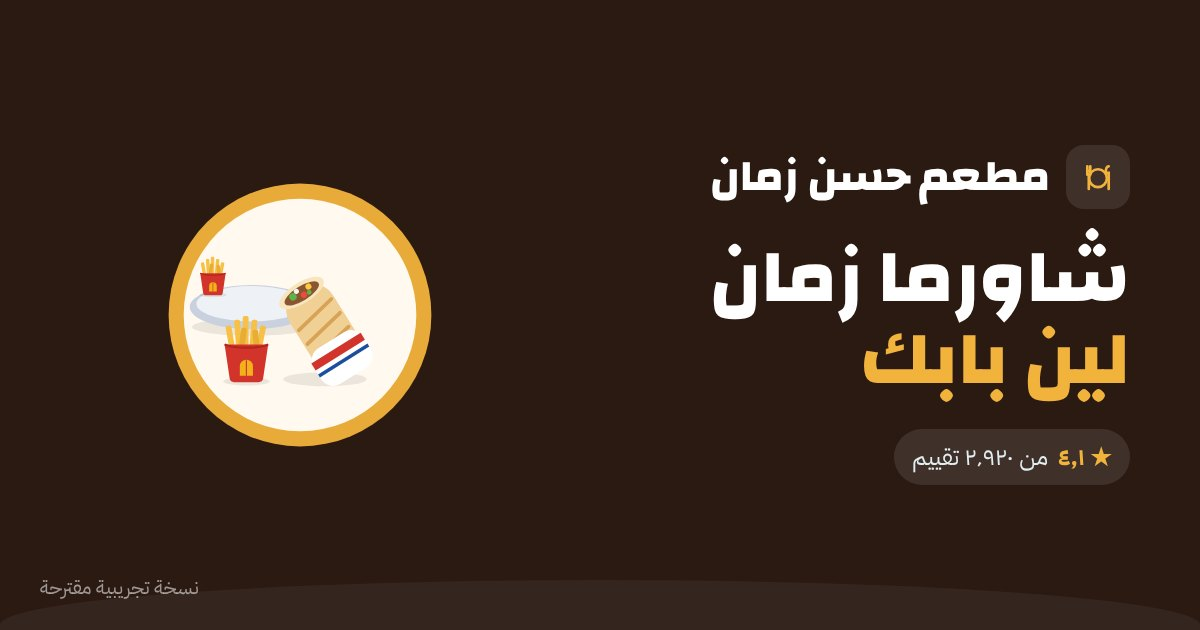
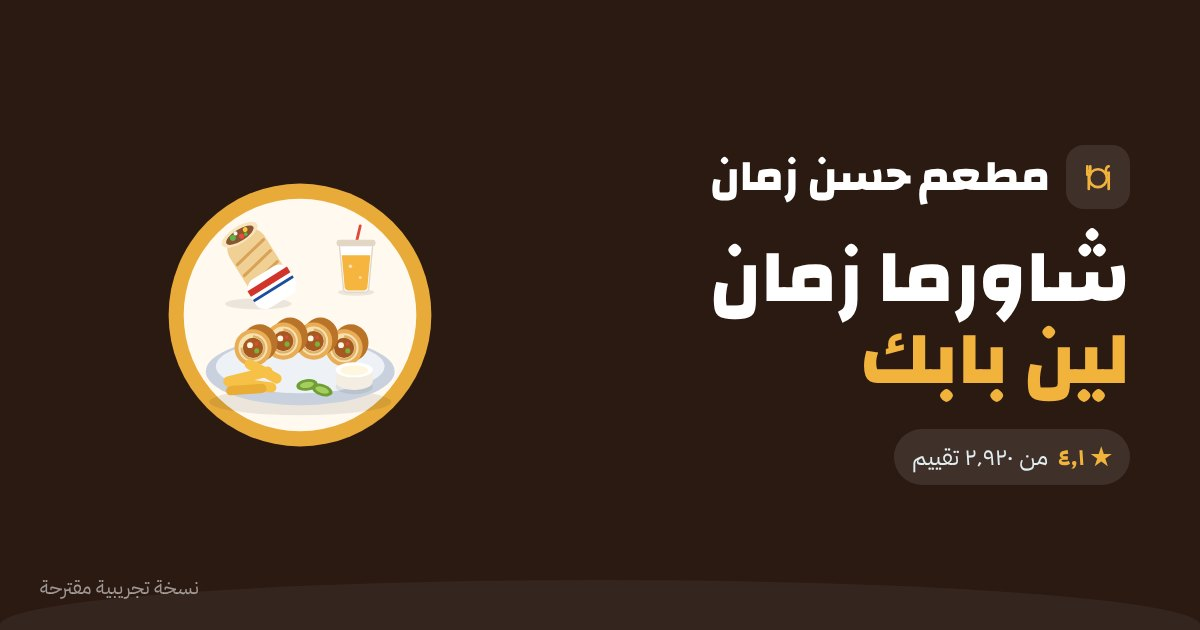
Update demo sites: hasanzaman

Changed region(s): [[0.1542, 0.3317, 0.3392, 0.6635]]

diff --git a/hasanzaman/index.html b/hasanzaman/index.html
@@ -477,6 +477,20 @@ table.t{width:100%;border-collapse:collapse;font-size:14px;background:#fff;min-w
   <rect x="32" y="32" width="56" height="9" rx="4.5" fill="#E2D6C4"/>
   <circle cx="52" cy="70" r="2.5" fill="#fff" opacity=".6"/><circle cx="66" cy="86" r="2" fill="#fff" opacity=".6"/>
 </symbol>
+<symbol id="f-samoli" viewBox="0 0 120 120">
+  <ellipse cx="60" cy="99" rx="50" ry="6" fill="#000" opacity=".08"/>
+  <path d="M10 74c0-3 2-5 5-5h90c3 0 5 2 5 5 0 9-7 16-16 16H26c-9 0-16-7-16-16z" fill="#E9A23B"/>
+  <path d="M18 74h84" stroke="#F6C978" stroke-width="3" stroke-linecap="round"/>
+  <path d="M11 70c2-7 8-10 14-8 4-6 11-7 16-3 5-6 12-6 17-1 5-5 13-5 17 0 5-4 12-4 16 1 6-3 12 0 13 7 0 3-2 5-5 5H16c-3 0-5-2-5-5z" fill="#A65A22"/>
+  <g stroke="#D08A3C" stroke-width="4" stroke-linecap="round" fill="none"><path d="M18 67l9-3"/><path d="M34 65l10 1"/><path d="M51 64l9 2"/><path d="M67 65l10-2"/><path d="M84 65l9 2"/></g>
+  <g transform="rotate(-12 28 61)"><ellipse cx="28" cy="61" rx="6.4" ry="3.4" fill="#6E9F33"/><ellipse cx="28" cy="61" rx="4.2" ry="1.8" fill="#A7CD62"/></g><g transform="rotate(8 61 60)"><ellipse cx="61" cy="60" rx="6.4" ry="3.4" fill="#6E9F33"/><ellipse cx="61" cy="60" rx="4.2" ry="1.8" fill="#A7CD62"/></g><g transform="rotate(14 92 61)"><ellipse cx="92" cy="61" rx="6.4" ry="3.4" fill="#6E9F33"/><ellipse cx="92" cy="61" rx="4.2" ry="1.8" fill="#A7CD62"/></g>
+  <path d="M17 66q5-4 10 0t10 0 10 0 10 0 10 0 10 0 10 0 10 0 10 0" stroke="#FFF7E6" stroke-width="3.2" fill="none" stroke-linecap="round"/>
+  <path d="M13 56c0-9 17-16 47-16s47 7 47 16c0 2-1.5 3.5-3.5 3.5h-87C14.5 59.5 13 58 13 56z" fill="#F0B04F"/>
+  <path d="M27 49c6-3 15-5 25-5" stroke="#fff" stroke-opacity=".45" stroke-width="4" stroke-linecap="round" fill="none"/>
+  <path d="M32 53c18 2 38 2 56 0" stroke="#D98F2F" stroke-opacity=".45" stroke-width="2.5" stroke-linecap="round" fill="none"/>
+</symbol>
+<symbol id="f-arabi" viewBox="0 0 120 120"><ellipse cx="60" cy="101" rx="54" ry="8" fill="#000" opacity=".08"/><ellipse cx="60" cy="83" rx="56" ry="20" fill="#C9D1DE"/><ellipse cx="60" cy="80" rx="50" ry="16" fill="#EEF2F7"/><ellipse cx="90" cy="66" rx="10.5" ry="11" fill="#B9742A"/><circle cx="86" cy="69" r="11" fill="#E9AE55"/><circle cx="86" cy="69" r="8.6" fill="#F7E1B0"/><circle cx="86" cy="69" r="6" fill="#A65A22"/><path d="M79.2 69a6.8 6.8 0 1 0 6.8 -6.8" fill="none" stroke="#DDB06A" stroke-width="1.2"/><circle cx="84.2" cy="67.4" r="1.7" fill="#FFF7E6"/><circle cx="88.2" cy="70.8" r="1.5" fill="#7DB03A"/><circle cx="88" cy="66.6" r="1.1" fill="#E04A3B"/><ellipse cx="72" cy="62" rx="10.5" ry="11" fill="#B9742A"/><circle cx="68" cy="65" r="11" fill="#E9AE55"/><circle cx="68" cy="65" r="8.6" fill="#F7E1B0"/><circle cx="68" cy="65" r="6" fill="#A65A22"/><path d="M61.2 65a6.8 6.8 0 1 0 6.8 -6.8" fill="none" stroke="#DDB06A" stroke-width="1.2"/><circle cx="66.2" cy="63.4" r="1.7" fill="#FFF7E6"/><circle cx="70.2" cy="66.8" r="1.5" fill="#7DB03A"/><circle cx="70" cy="62.6" r="1.1" fill="#E04A3B"/><ellipse cx="54" cy="62" rx="10.5" ry="11" fill="#B9742A"/><circle cx="50" cy="65" r="11" fill="#E9AE55"/><circle cx="50" cy="65" r="8.6" fill="#F7E1B0"/><circle cx="50" cy="65" r="6" fill="#A65A22"/><path d="M43.2 65a6.8 6.8 0 1 0 6.8 -6.8" fill="none" stroke="#DDB06A" stroke-width="1.2"/><circle cx="48.2" cy="63.4" r="1.7" fill="#FFF7E6"/><circle cx="52.2" cy="66.8" r="1.5" fill="#7DB03A"/><circle cx="52" cy="62.6" r="1.1" fill="#E04A3B"/><ellipse cx="36" cy="66" rx="10.5" ry="11" fill="#B9742A"/><circle cx="32" cy="69" r="11" fill="#E9AE55"/><circle cx="32" cy="69" r="8.6" fill="#F7E1B0"/><circle cx="32" cy="69" r="6" fill="#A65A22"/><path d="M25.2 69a6.8 6.8 0 1 0 6.8 -6.8" fill="none" stroke="#DDB06A" stroke-width="1.2"/><circle cx="30.2" cy="67.4" r="1.7" fill="#FFF7E6"/><circle cx="34.2" cy="70.8" r="1.5" fill="#7DB03A"/><circle cx="34" cy="66.6" r="1.1" fill="#E04A3B"/><g fill="#F6C146"><rect x="14" y="83" width="30" height="6" rx="3" transform="rotate(-14 29 86)"/><rect x="18" y="88" width="28" height="6" rx="3" transform="rotate(8 32 91)"/><rect x="26" y="80" width="24" height="6" rx="3" transform="rotate(28 38 83)"/></g><rect x="16" y="91" width="24" height="5.5" rx="2.75" fill="#E9AC34" transform="rotate(-4 28 94)"/><ellipse cx="92" cy="92" rx="11" ry="4.5" fill="#000" opacity=".07"/><path d="M81 82h22v7c0 3-5 5-11 5s-11-2-11-5z" fill="#F4EEE2"/><ellipse cx="92" cy="82" rx="11" ry="4.5" fill="#FFFFFF"/><ellipse cx="92" cy="82.4" rx="8.2" ry="3" fill="#FFF6DF"/><g transform="rotate(-8 64 91)"><ellipse cx="64" cy="91" rx="6.4" ry="3.4" fill="#6E9F33"/><ellipse cx="64" cy="91" rx="4.2" ry="1.8" fill="#A7CD62"/></g><g transform="rotate(18 73 94)"><ellipse cx="73" cy="94" rx="6.4" ry="3.4" fill="#6E9F33"/><ellipse cx="73" cy="94" rx="4.2" ry="1.8" fill="#A7CD62"/></g></symbol>
+<symbol id="f-shawplate" viewBox="0 0 120 120"><ellipse cx="60" cy="101" rx="54" ry="8" fill="#000" opacity=".08"/><ellipse cx="60" cy="83" rx="56" ry="20" fill="#C9D1DE"/><ellipse cx="60" cy="80" rx="50" ry="16" fill="#EEF2F7"/><path d="M26 82c-4-6 0-14 8-15 1-8 10-13 18-10 5-6 15-6 20 0 8-3 17 2 17 10 7 2 9 10 4 15z" fill="#A65A22"/><g stroke="#D08A3C" stroke-width="4.2" stroke-linecap="round" fill="none"><path d="M34 74l9-4"/><path d="M48 66l10 1"/><path d="M63 64l9 3"/><path d="M76 72l9 2"/><path d="M45 78l10-2"/><path d="M62 76l10 1"/></g><g stroke="#7A3F16" stroke-width="2.4" stroke-linecap="round" fill="none" opacity=".55"><path d="M40 70l7-2"/><path d="M57 72l8 1"/><path d="M70 68l6 2"/></g><g transform="rotate(-20 46 61)"><ellipse cx="46" cy="61" rx="6.4" ry="3.4" fill="#6E9F33"/><ellipse cx="46" cy="61" rx="4.2" ry="1.8" fill="#A7CD62"/></g><g transform="rotate(15 80 64)"><ellipse cx="80" cy="64" rx="6.4" ry="3.4" fill="#6E9F33"/><ellipse cx="80" cy="64" rx="4.2" ry="1.8" fill="#A7CD62"/></g><circle cx="64" cy="58" r="5" fill="#E04A3B"/><circle cx="64" cy="58" r="3.2" fill="#F07A64"/><g fill="#F6C146"><rect x="14" y="83" width="30" height="6" rx="3" transform="rotate(-14 29 86)"/><rect x="18" y="88" width="28" height="6" rx="3" transform="rotate(8 32 91)"/><rect x="26" y="80" width="24" height="6" rx="3" transform="rotate(28 38 83)"/></g><rect x="16" y="91" width="24" height="5.5" rx="2.75" fill="#E9AC34" transform="rotate(-4 28 94)"/><ellipse cx="92" cy="92" rx="11" ry="4.5" fill="#000" opacity=".07"/><path d="M81 82h22v7c0 3-5 5-11 5s-11-2-11-5z" fill="#F4EEE2"/><ellipse cx="92" cy="82" rx="11" ry="4.5" fill="#FFFFFF"/><ellipse cx="92" cy="82.4" rx="8.2" ry="3" fill="#FFF6DF"/></symbol>
 </defs>
 
 <!-- food illustrations -->
@@ -684,7 +698,7 @@ table.t{width:100%;border-collapse:collapse;font-size:14px;background:#fff;min-w
           <span class="fact"><svg class="ic"><use href="#ic-star"/></svg>تقييم <b>4.1</b> من 2,920 تقييم</span>
         </div>
       </div>
-      <div class="plate" id="door" role="img" aria-label="أكل حسن زمان"><div class="plate__ring"></div><div class="plate__disc"><svg class="art" viewBox="0 0 120 120" aria-hidden="true"><use href="#f-platter" x="-4" y="4" width="76" height="76"/><use href="#f-wrap" x="36" y="28" width="80" height="80"/><use href="#f-fries" x="6" y="54" width="50" height="50"/></svg></div><span class="plate__steam" aria-hidden="true"><i></i><i></i><i></i></span></div>
+      <div class="plate" id="door" role="img" aria-label="أكل حسن زمان"><div class="plate__ring"></div><div class="plate__disc"><svg class="art" viewBox="0 0 120 120" aria-hidden="true"><use href="#f-wrap" x="4" y="-2" width="64" height="64"/><use href="#f-cup" x="68" y="4" width="48" height="48"/><use href="#f-arabi" x="2" y="12" width="116" height="116"/></svg></div><span class="plate__steam" aria-hidden="true"><i></i><i></i><i></i></span></div>
     </div>
     <div class="najdi"></div>
   </section>
@@ -859,34 +873,34 @@ const CATS = [
 ];
 const POP = { id: 'pop', name: 'الأكثر طلباً', note: "اللي يطلبه الناس أكثر شي من حسن زمان.", tile: '#FFF0C9' };
 const CAT = Object.fromEntries(CATS.map(c => [c.id, c]));
-const CAT_ART = {"chk": "wrap", "meat": "wrap", "plates": "platter", "burger": "burger", "sides": "fries", "juice": "cup"};
+const CAT_ART = {"chk": "samoli", "meat": "samoli", "plates": "arabi", "burger": "burger", "sides": "fries", "juice": "cup"};
 const BASE = [
-  ["c1", "chk", "دجاج صامولي", 7, "hotdog", 1],
-  ["c2", "chk", "دجاج صامولي جبن", 8, "hotdog"],
+  ["c1", "chk", "دجاج صامولي", 7, "samoli", 1],
+  ["c2", "chk", "دجاج صامولي جبن", 8, "samoli"],
   ["c3", "chk", "دجاج مفرود", 7, "wrap"],
   ["c4", "chk", "دجاج مفرود جبن", 8, "wrap"],
   ["c5", "chk", "دجاج صاج صغير", 7, "wrap"],
   ["c6", "chk", "دجاج صاج صغير جبن", 8, "wrap"],
-  ["c7", "chk", "دجاج صاروخ", 13, "hotdog", 1],
-  ["c8", "chk", "دجاج صاروخ جبن", 14, "hotdog"],
-  ["c9", "chk", "دجاج جامبو", 13, "hotdog"],
-  ["c10", "chk", "دجاج جامبو جبن", 14, "hotdog"],
-  ["m1", "meat", "لحم صامولي", 8, "hotdog", 1],
-  ["m2", "meat", "لحم صامولي جبن", 9, "hotdog"],
+  ["c7", "chk", "دجاج صاروخ", 13, "samoli", 1],
+  ["c8", "chk", "دجاج صاروخ جبن", 14, "samoli"],
+  ["c9", "chk", "دجاج جامبو", 13, "samoli"],
+  ["c10", "chk", "دجاج جامبو جبن", 14, "samoli"],
+  ["m1", "meat", "لحم صامولي", 8, "samoli", 1],
+  ["m2", "meat", "لحم صامولي جبن", 9, "samoli"],
   ["m3", "meat", "لحم مفرود", 8, "wrap"],
   ["m4", "meat", "لحم مفرود جبن", 9, "wrap"],
   ["m5", "meat", "لحم صاج صغير", 8, "wrap"],
   ["m6", "meat", "لحم صاج صغير جبن", 9, "wrap"],
-  ["m7", "meat", "لحم صاروخ", 14, "hotdog"],
-  ["m8", "meat", "لحم صاروخ جبن", 15, "hotdog"],
-  ["m9", "meat", "لحم جامبو", 13, "hotdog"],
-  ["m10", "meat", "لحم جامبو جبن", 14, "hotdog"],
-  ["p1", "plates", "شاورما صحن دجاج", null, "platter", 1, [["عادي", 14], ["كبير", 23]]],
-  ["p2", "plates", "شاورما صحن لحم", null, "platter", 0, [["عادي", 15], ["كبير", 25]]],
-  ["p3", "plates", "شاورما صحن عربي", 15, "platter"],
-  ["p4", "plates", "شاورما صحن عربي جبن", 17, "platter"],
-  ["p5", "plates", "شاورما صحن لحم عربي", 16, "platter"],
-  ["p6", "plates", "شاورما صحن لحم عربي بالجبن", 18, "platter"],
+  ["m7", "meat", "لحم صاروخ", 14, "samoli"],
+  ["m8", "meat", "لحم صاروخ جبن", 15, "samoli"],
+  ["m9", "meat", "لحم جامبو", 13, "samoli"],
+  ["m10", "meat", "لحم جامبو جبن", 14, "samoli"],
+  ["p1", "plates", "شاورما صحن دجاج", null, "shawplate", 1, [["عادي", 14], ["كبير", 23]]],
+  ["p2", "plates", "شاورما صحن لحم", null, "shawplate", 0, [["عادي", 15], ["كبير", 25]]],
+  ["p3", "plates", "شاورما صحن عربي", 15, "arabi"],
+  ["p4", "plates", "شاورما صحن عربي جبن", 17, "arabi"],
+  ["p5", "plates", "شاورما صحن لحم عربي", 16, "arabi"],
+  ["p6", "plates", "شاورما صحن لحم عربي بالجبن", 18, "arabi"],
   ["b1", "burger", "كودو", 12, "jumbo"],
   ["b2", "burger", "كودو بالجبن", 13, "jumbo"],
   ["b3", "burger", "همبرجر دجاج", 7, "burger"],
